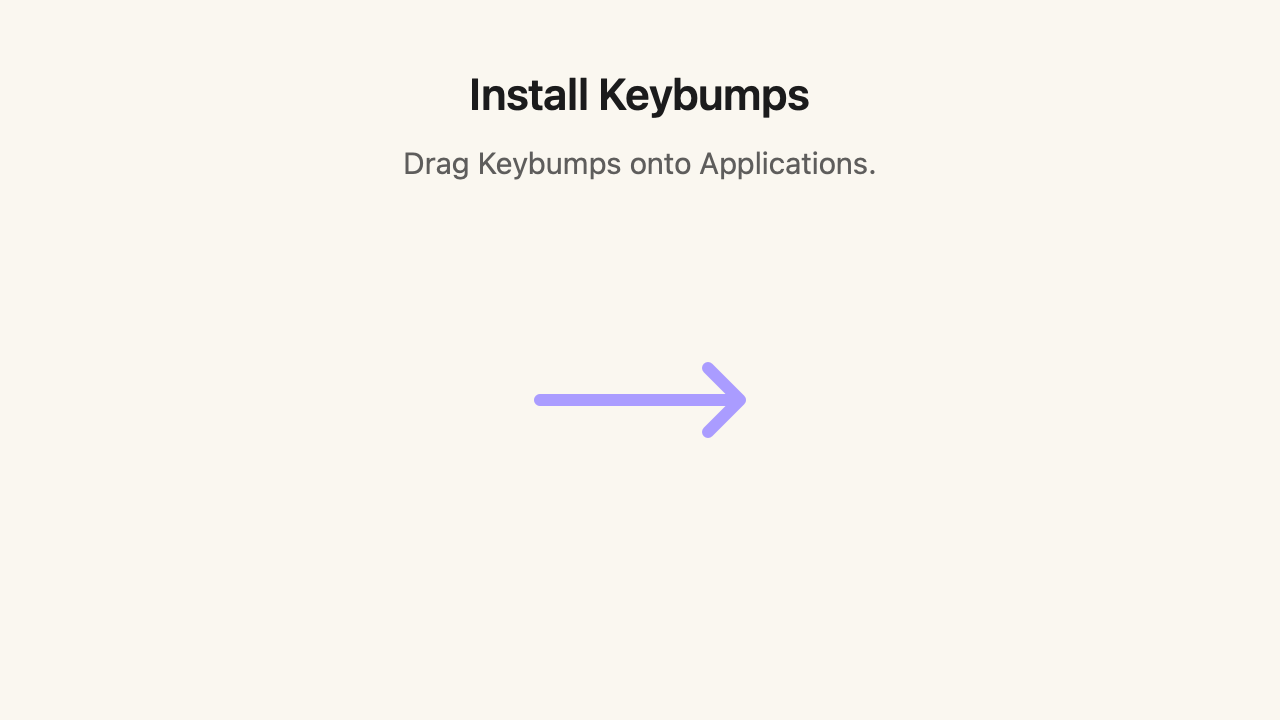
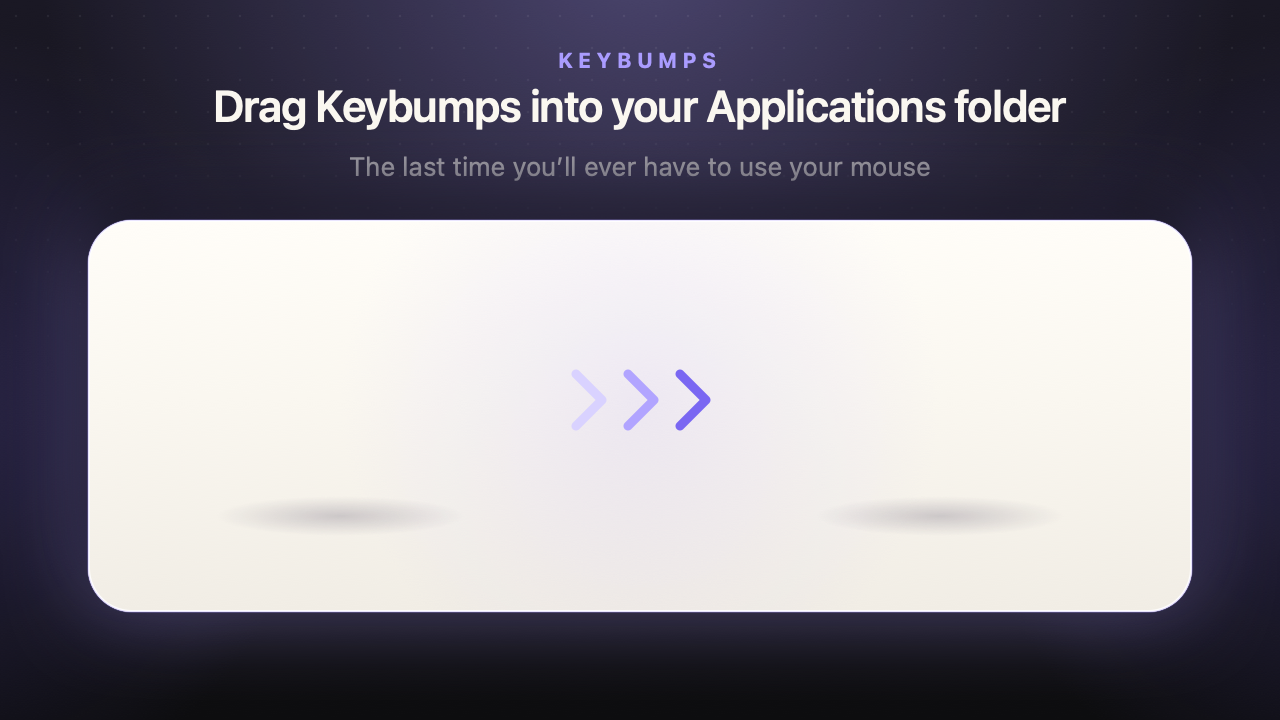
feat: #438 the disk image's Midnight design: a dark window with a lit tray, "Drag Keybumps into your Applications folder"

diff --git a/apps/macos/scripts/dmg/render-background.swift b/apps/macos/scripts/dmg/render-background.swift
@@ -1,6 +1,7 @@
-// Renders the release disk image's window background (#437): Keybumps on the left, an arrow, and
-// Applications on the right, at 1x and 2x. dmg-settings.py places the icons over the gaps this
-// leaves, so keep the two in step.
+// Renders the release disk image's window background (#437) at 1x and 2x: the site's near-black
+// with a lavender glow, and a lit powder tray that holds Keybumps, chevrons, and Applications.
+// The tray keeps the area behind Finder's labels light, so its dark labels stay readable.
+// dmg-settings.py places the icons at the centers below, so keep the two in step.
 //
 // usage (from the repository root): swift apps/macos/scripts/dmg/render-background.swift apps/macos/scripts/dmg
 import AppKit
@@ -14,17 +15,27 @@ let output = URL(fileURLWithPath: arguments[1])
 
 // The window's content size in points, and the icon centers dmg-settings.py uses. Finder's tab
 // bar and path bar are global settings that a disk image can't turn off, and they take about 58pt
-// from the bottom, so everything that matters sits in the top 300pt.
+// from the bottom, so everything that matters sits in the top 306pt.
 let width: CGFloat = 640
 let height: CGFloat = 360
 let iconY: CGFloat = 200
 let appX: CGFloat = 170
 let applicationsX: CGFloat = 470
 
-// Brand tokens (brand/tokens/brand-tokens.json).
-let powder = NSColor(srgbRed: 0xFA / 255, green: 0xF7 / 255, blue: 0xF0 / 255, alpha: 1)
-let ink = NSColor(srgbRed: 0x1B / 255, green: 0x1B / 255, blue: 0x1C / 255, alpha: 1)
-let lavender = NSColor(srgbRed: 0xAA / 255, green: 0x9C / 255, blue: 0xFF / 255, alpha: 1)
+func hex(_ v: UInt32, _ a: CGFloat = 1) -> NSColor {
+    NSColor(srgbRed: CGFloat((v >> 16) & 0xFF) / 255, green: CGFloat((v >> 8) & 0xFF) / 255,
+            blue: CGFloat(v & 0xFF) / 255, alpha: a)
+}
+// Brand and site tokens.
+let powder = hex(0xFAF7F0)
+let lavender = hex(0xAA9CFF)
+let deepLavender = hex(0x7A67F2)
+let muted = hex(0xA3A1A8)
+let space = CGColorSpace(name: CGColorSpace.sRGB)!
+
+func gradient(_ colors: [NSColor], _ locations: [CGFloat]? = nil) -> CGGradient {
+    CGGradient(colorsSpace: space, colors: colors.map(\.cgColor) as CFArray, locations: locations)!
+}
 
 func render(scale: CGFloat) throws {
     let bitmap = NSBitmapImageRep(
@@ -34,38 +45,100 @@ func render(scale: CGFloat) throws {
     // Points in, pixels out: Finder reads the 2x image's size from its DPI.
     bitmap.size = NSSize(width: width, height: height)
     NSGraphicsContext.saveGraphicsState()
-    NSGraphicsContext.current = NSGraphicsContext(bitmapImageRep: bitmap)
-    // AppKit's origin is bottom-left; Finder's icon positions are from the top-left.
-    func flipped(_ y: CGFloat) -> CGFloat { height - y }
+    let cg = NSGraphicsContext(bitmapImageRep: bitmap)!.cgContext
+    // Draw top-down, like Finder's icon positions.
+    cg.translateBy(x: 0, y: height)
+    cg.scaleBy(x: 1, y: -1)
+    NSGraphicsContext.current = NSGraphicsContext(cgContext: cg, flipped: true)
 
-    powder.setFill()
-    NSRect(x: 0, y: 0, width: width, height: height).fill()
+    // Night sky: near-black, a touch of violet at the top.
+    cg.drawLinearGradient(gradient([hex(0x1A1824), hex(0x0D0D0F)]),
+                          start: .zero, end: CGPoint(x: 0, y: height), options: [])
+    // Aurora behind the headline, and a low ember at each side.
+    cg.drawRadialGradient(gradient([lavender.withAlphaComponent(0.34), lavender.withAlphaComponent(0)]),
+                          startCenter: CGPoint(x: width / 2, y: -30), startRadius: 0,
+                          endCenter: CGPoint(x: width / 2, y: -30), endRadius: 300, options: [])
+    for x in [CGFloat(-40), width + 40] {
+        cg.drawRadialGradient(gradient([deepLavender.withAlphaComponent(0.22), deepLavender.withAlphaComponent(0)]),
+                              startCenter: CGPoint(x: x, y: 210), startRadius: 0,
+                              endCenter: CGPoint(x: x, y: 210), endRadius: 200, options: [])
+    }
+    // A fine dot grid that fades out toward the bottom.
+    for row in 0..<23 {
+        for col in 0..<41 {
+            let y = 8 + CGFloat(row) * 16, x = 8 + CGFloat(col) * 16
+            let a = 0.07 * max(0, 1 - y / 200)
+            if a <= 0.005 { continue }
+            cg.setFillColor(hex(0xFFFFFF, a).cgColor)
+            cg.fillEllipse(in: CGRect(x: x - 0.6, y: y - 0.6, width: 1.2, height: 1.2))
+        }
+    }
 
-    // The arrow from Keybumps to Applications.
-    let arrow = NSBezierPath()
-    arrow.lineWidth = 6
-    arrow.lineCapStyle = .round
-    arrow.lineJoinStyle = .round
-    let start = appX + 100
-    let end = applicationsX - 100
-    arrow.move(to: NSPoint(x: start, y: flipped(iconY)))
-    arrow.line(to: NSPoint(x: end, y: flipped(iconY)))
-    arrow.move(to: NSPoint(x: end - 16, y: flipped(iconY) + 16))
-    arrow.line(to: NSPoint(x: end, y: flipped(iconY)))
-    arrow.line(to: NSPoint(x: end - 16, y: flipped(iconY) - 16))
-    lavender.setStroke()
-    arrow.stroke()
+    // Copy.
+    let center = NSMutableParagraphStyle()
+    center.alignment = .center
+    NSAttributedString(string: "KEYBUMPS", attributes: [
+        .font: NSFont.systemFont(ofSize: 10.5, weight: .bold), .foregroundColor: lavender,
+        .kern: 2.6, .paragraphStyle: center,
+    ]).draw(in: CGRect(x: 0, y: 24, width: width, height: 14))
+    NSAttributedString(string: "Drag Keybumps into your Applications folder", attributes: [
+        .font: NSFont.systemFont(ofSize: 22, weight: .semibold), .foregroundColor: powder,
+        .kern: -0.4, .paragraphStyle: center,
+    ]).draw(in: CGRect(x: 0, y: 40, width: width, height: 32))
+    NSAttributedString(string: "The last time you’ll ever have to use your mouse", attributes: [
+        .font: NSFont.systemFont(ofSize: 13), .foregroundColor: muted, .paragraphStyle: center,
+    ]).draw(in: CGRect(x: 0, y: 75, width: width, height: 18))
 
-    let paragraph = NSMutableParagraphStyle()
-    paragraph.alignment = .center
-    let title = NSAttributedString(string: "Install Keybumps", attributes: [
-        .font: NSFont.systemFont(ofSize: 22, weight: .semibold), .foregroundColor: ink, .paragraphStyle: paragraph,
-    ])
-    title.draw(in: NSRect(x: 0, y: flipped(64), width: width, height: 30))
-    let instruction = NSAttributedString(string: "Drag Keybumps onto Applications.", attributes: [
-        .font: NSFont.systemFont(ofSize: 15), .foregroundColor: ink.withAlphaComponent(0.7), .paragraphStyle: paragraph,
-    ])
-    instruction.draw(in: NSRect(x: 0, y: flipped(94), width: width, height: 22))
+    // The tray: a lit powder slab with a lavender halo and a deep drop shadow.
+    let tray = CGRect(x: 44, y: 110, width: width - 88, height: 196)
+    let trayPath = CGPath(roundedRect: tray, cornerWidth: 22, cornerHeight: 22, transform: nil)
+    cg.saveGState()
+    cg.setShadow(offset: CGSize(width: 0, height: 0), blur: 46, color: lavender.withAlphaComponent(0.45).cgColor)
+    cg.addPath(trayPath); cg.setFillColor(powder.cgColor); cg.fillPath()
+    cg.restoreGState()
+    cg.saveGState()
+    cg.setShadow(offset: CGSize(width: 0, height: 18), blur: 30, color: hex(0x000000, 0.55).cgColor)
+    cg.addPath(trayPath); cg.setFillColor(powder.cgColor); cg.fillPath()
+    cg.restoreGState()
+    cg.saveGState()
+    cg.addPath(trayPath); cg.clip()
+    cg.drawLinearGradient(gradient([hex(0xFFFDF8), powder, hex(0xF1EDE5)], [0, 0.45, 1]),
+                          start: CGPoint(x: 0, y: tray.minY), end: CGPoint(x: 0, y: tray.maxY), options: [])
+    // A faint lavender wash across the middle, under the chevrons.
+    cg.drawRadialGradient(gradient([lavender.withAlphaComponent(0.16), lavender.withAlphaComponent(0)]),
+                          startCenter: CGPoint(x: width / 2, y: iconY), startRadius: 0,
+                          endCenter: CGPoint(x: width / 2, y: iconY), endRadius: 150, options: [])
+    // Soft contact shadows that seat each icon on the tray.
+    for x in [appX, applicationsX] {
+        cg.saveGState()
+        cg.translateBy(x: x, y: iconY + 58)
+        cg.scaleBy(x: 1, y: 0.16)
+        cg.drawRadialGradient(gradient([hex(0x3A3150, 0.22), hex(0x3A3150, 0)]),
+                              startCenter: .zero, startRadius: 0, endCenter: .zero, endRadius: 62, options: [])
+        cg.restoreGState()
+    }
+    cg.restoreGState()
+    // Rim light along the tray's top edge, and a hairline all round.
+    cg.saveGState()
+    cg.addPath(trayPath); cg.clip()
+    let rim = CGPath(roundedRect: tray.insetBy(dx: 0.5, dy: 0.5), cornerWidth: 21.5, cornerHeight: 21.5, transform: nil)
+    cg.addPath(rim); cg.setStrokeColor(hex(0xFFFFFF, 0.9).cgColor); cg.setLineWidth(1); cg.strokePath()
+    cg.restoreGState()
+    cg.addPath(trayPath); cg.setStrokeColor(lavender.withAlphaComponent(0.35).cgColor); cg.setLineWidth(0.75); cg.strokePath()
+
+    // Three chevrons that brighten toward Applications.
+    let tints = [hex(0xD9D2FF), hex(0xB1A4FF), deepLavender]
+    for (i, tint) in tints.enumerated() {
+        let cx = width / 2 - 26 + CGFloat(i) * 26
+        let chevron = CGMutablePath()
+        chevron.move(to: CGPoint(x: cx - 6, y: iconY - 13))
+        chevron.addLine(to: CGPoint(x: cx + 7, y: iconY))
+        chevron.addLine(to: CGPoint(x: cx - 6, y: iconY + 13))
+        cg.addPath(chevron)
+        cg.setStrokeColor(tint.cgColor)
+        cg.setLineWidth(4.5); cg.setLineCap(.round); cg.setLineJoin(.round)
+        cg.strokePath()
+    }
 
     NSGraphicsContext.restoreGraphicsState()
     let name = scale == 1 ? "background.png" : "background@\(Int(scale))x.png"
